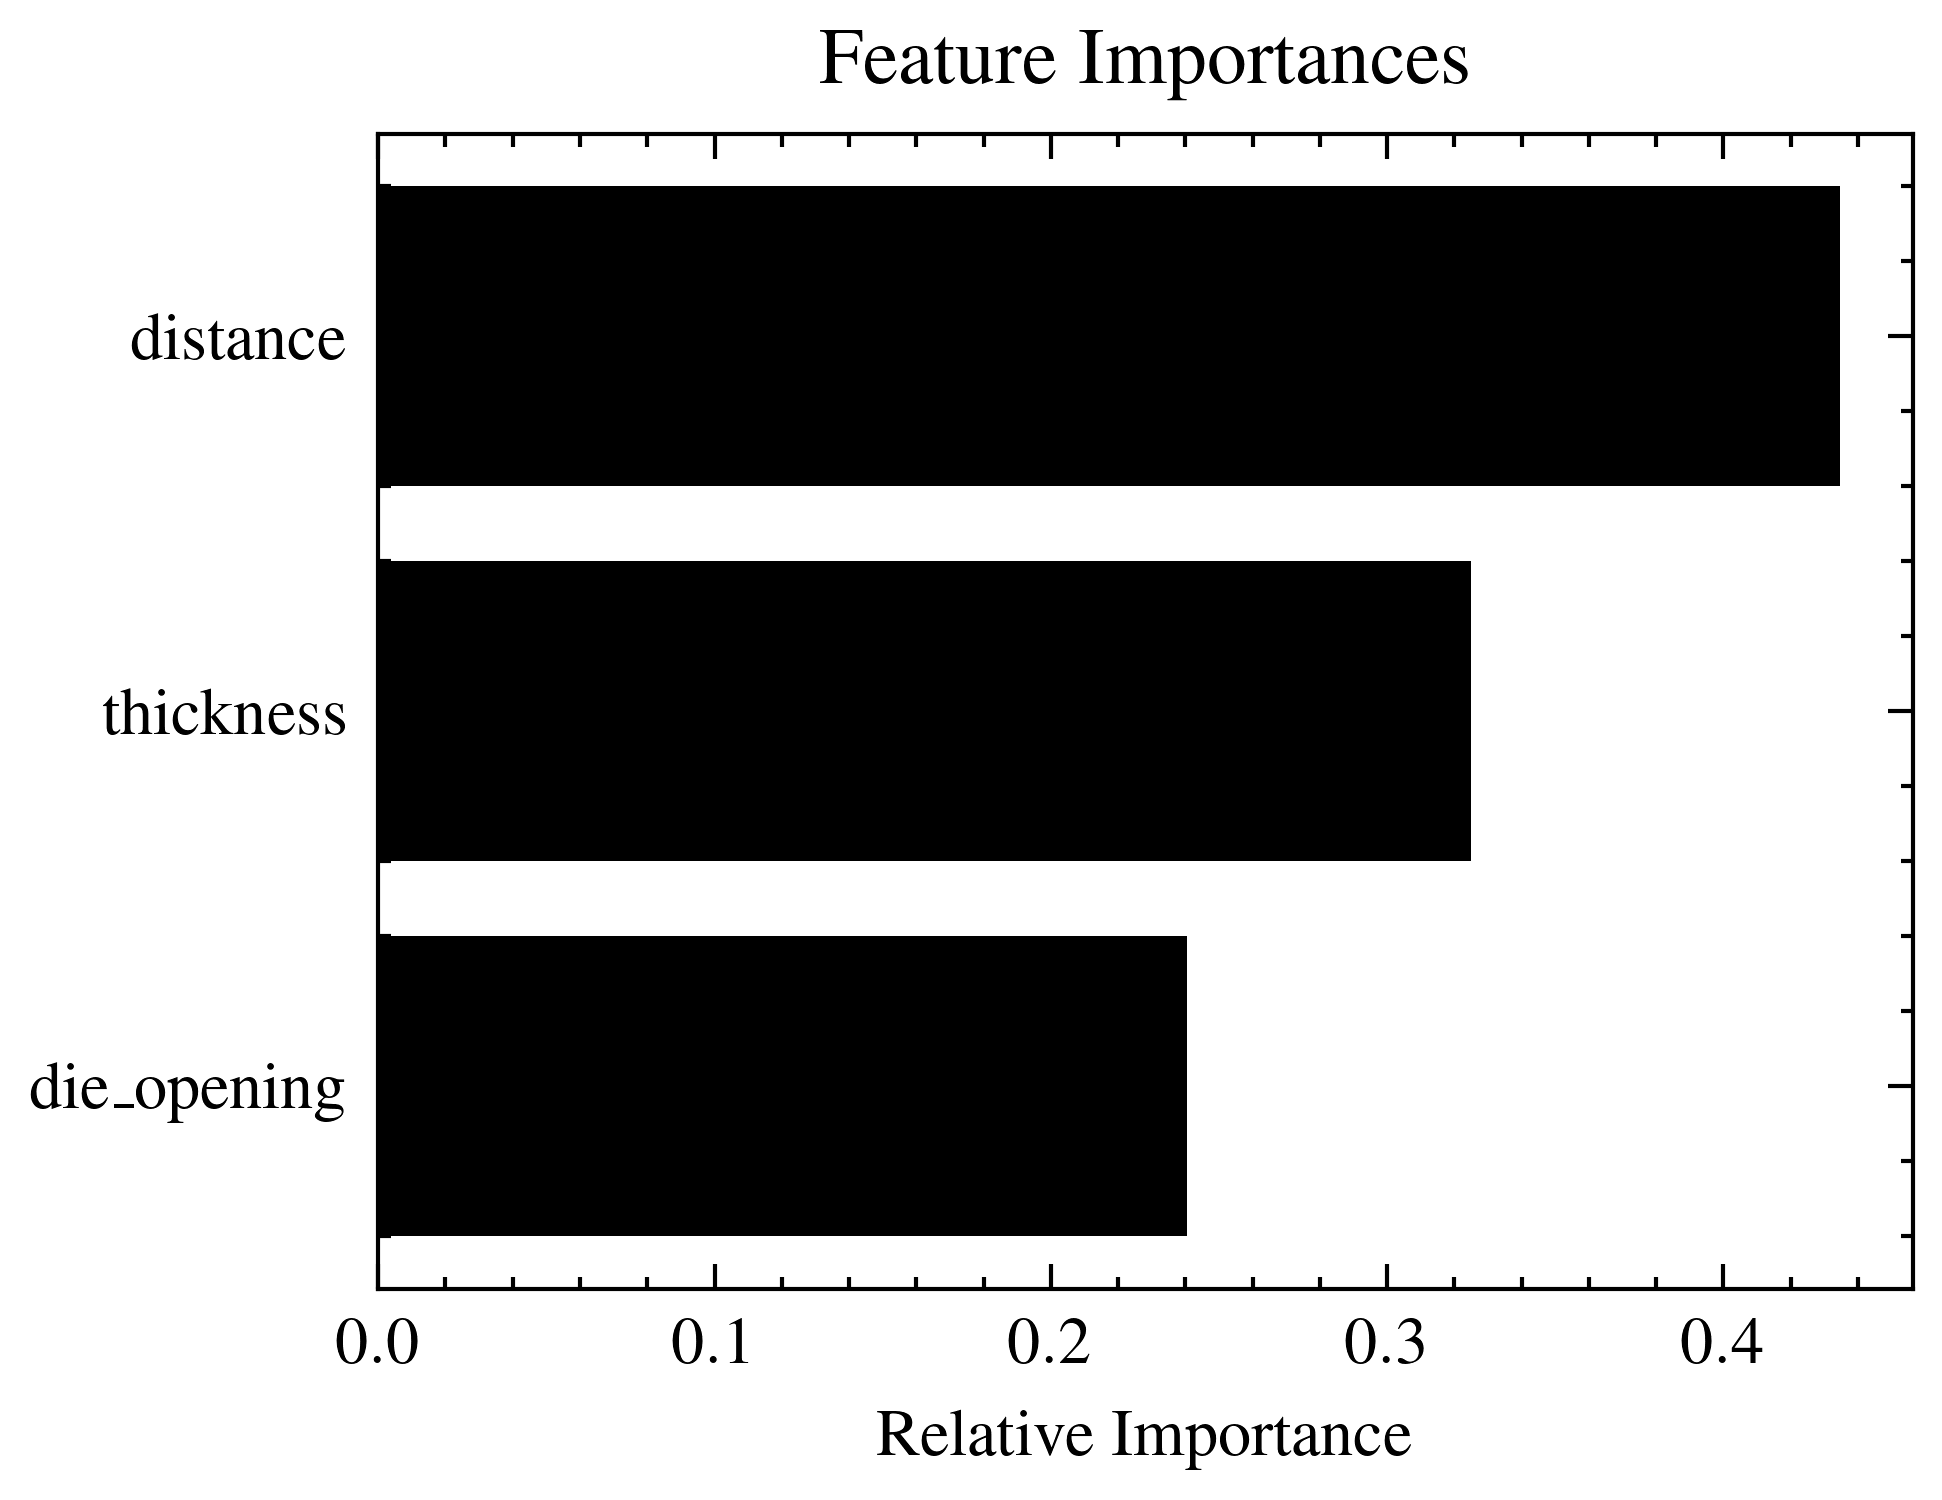
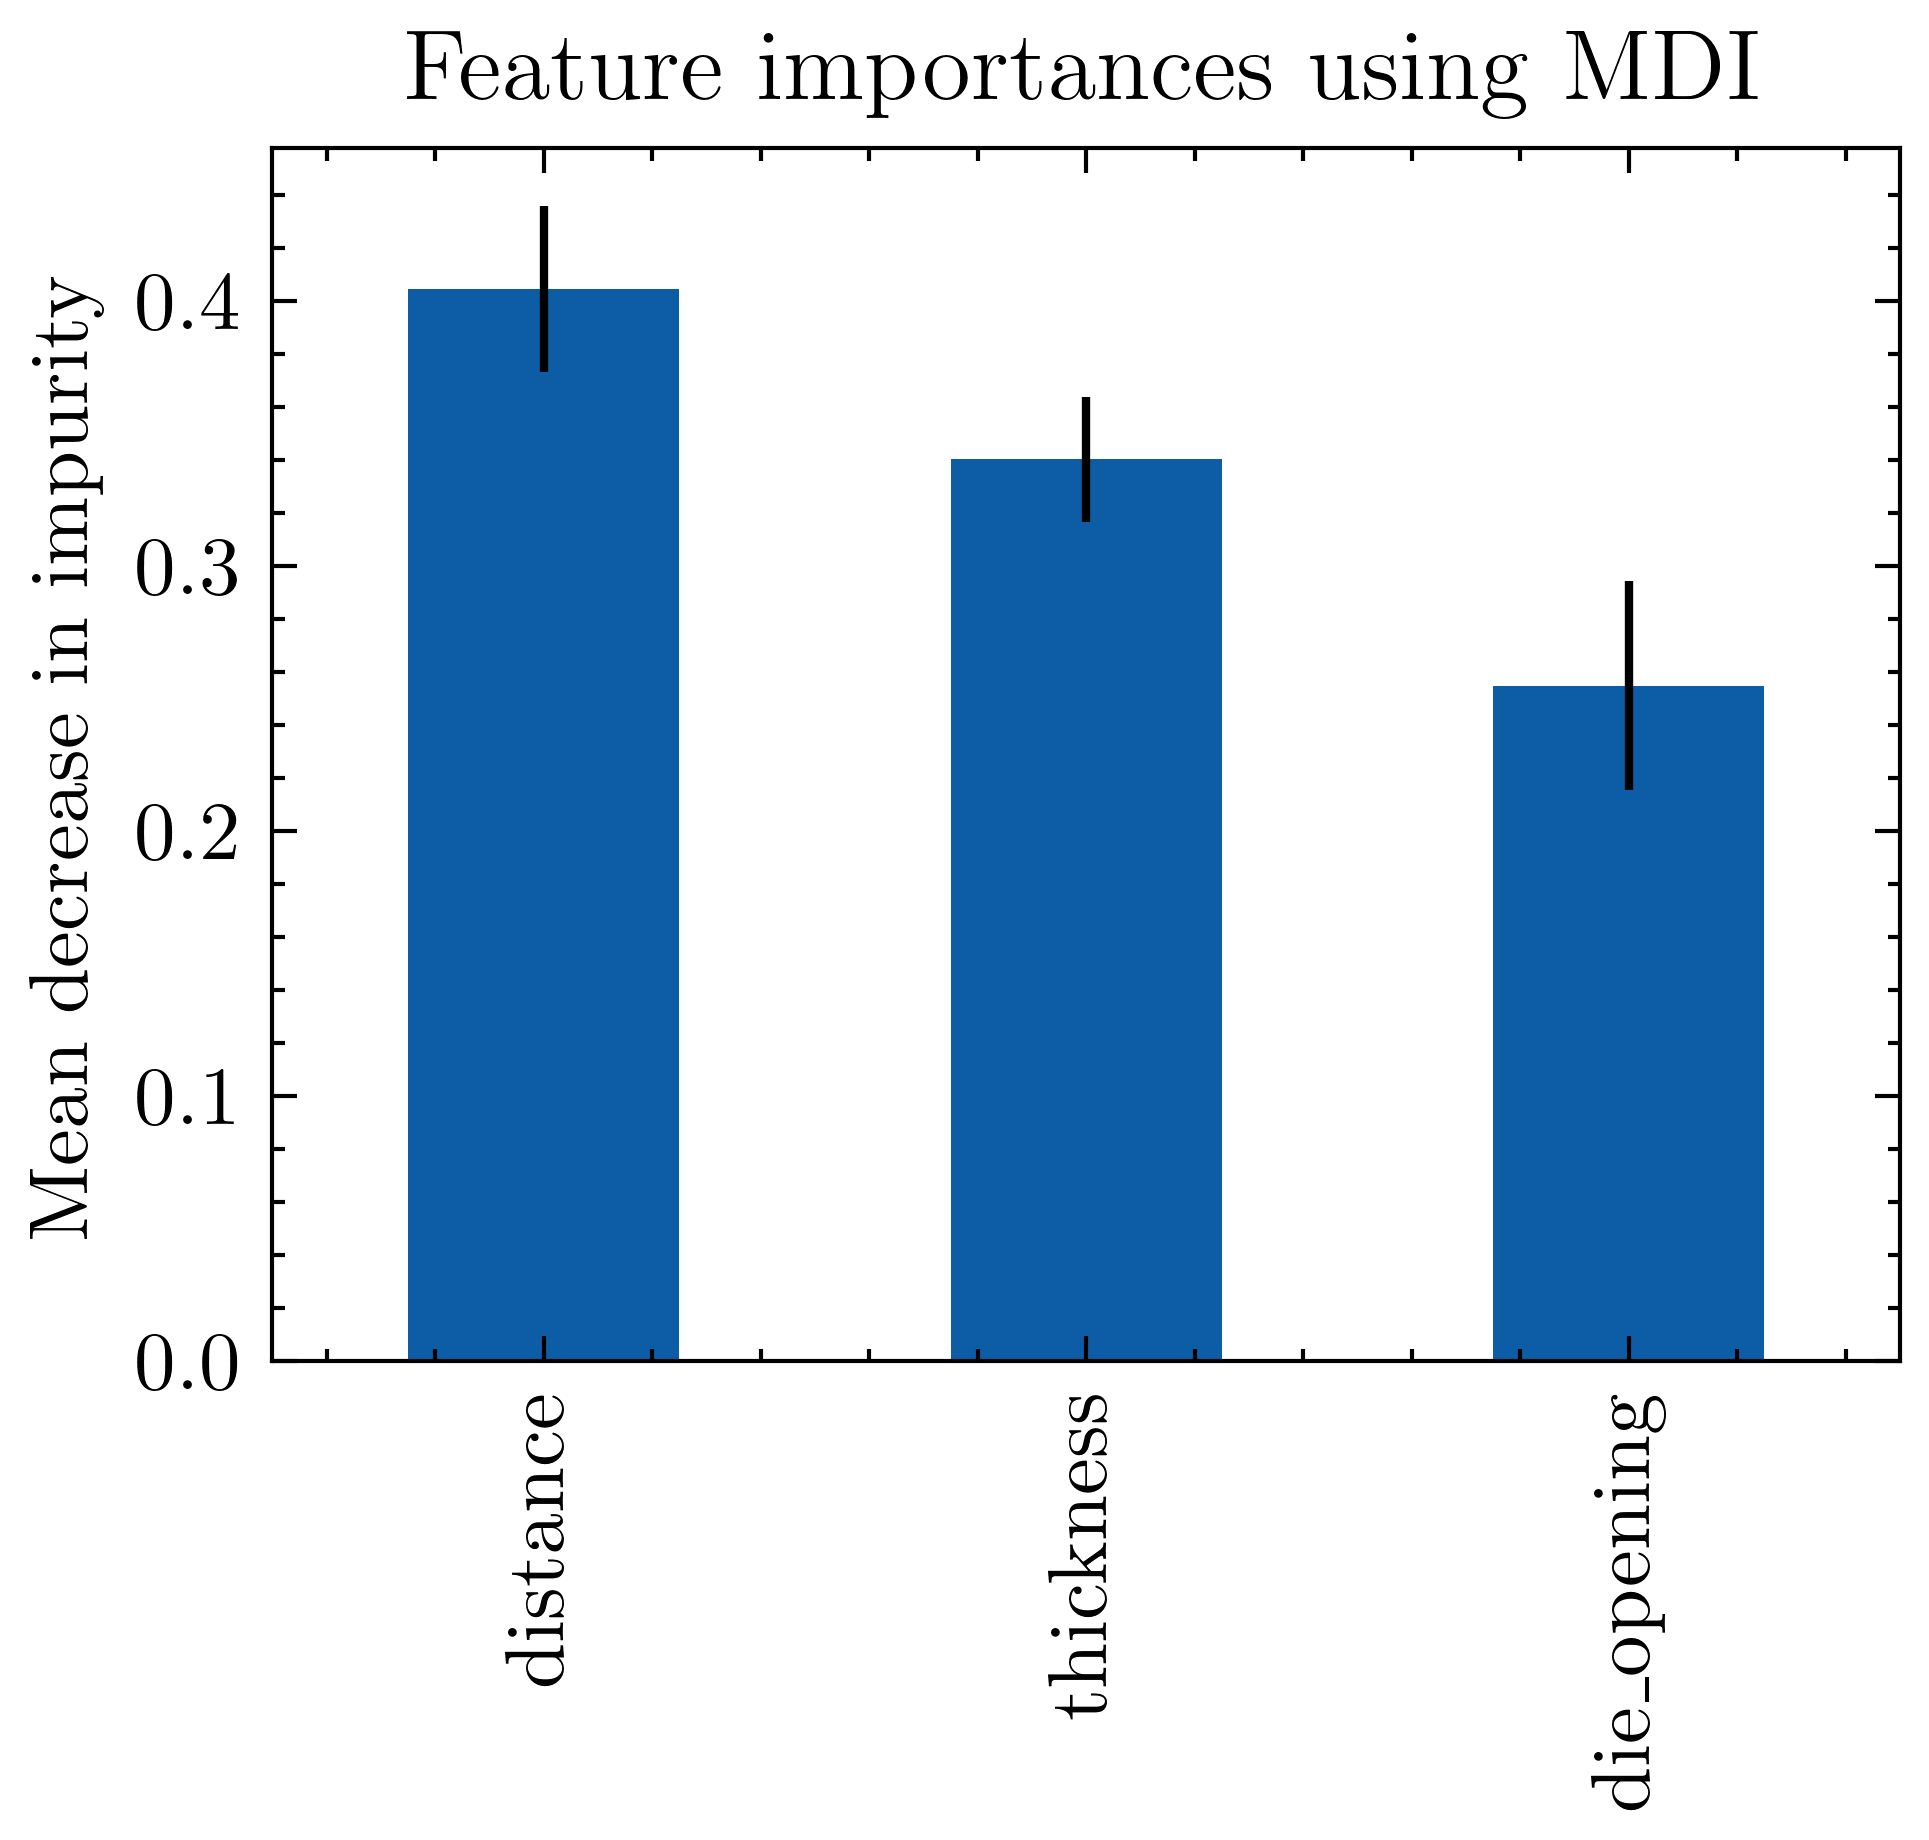
Various changes.

diff --git a/learner/random_forest/random_forest.py b/learner/random_forest/random_forest.py
@@ -33,6 +33,36 @@ def random_forest(model_data):
     return pipe, y_pred
 
 
+def feature_importances1(rf_model, df):
+    plt.style.use(['science'])
+    importances = rf_model.feature_importances_
+    std = np.std([tree.feature_importances_ for tree in rf_model.estimators_], axis=0)
+
+    feature_names = df.columns
+    # Remove 'springback"
+    feature_names = feature_names.drop('springback')
+
+    forest_importances = pd.Series(importances, index=feature_names)
+
+    fig, ax = plt.subplots()
+    forest_importances.plot.bar(yerr=std, ax=ax)
+    ax.set_title("Feature importances using MDI")
+    ax.set_ylabel("Mean decrease in impurity")
+    # fig.tight_layout()
+    plt.savefig('rf_feature_importances.png', transparent=True, dpi=600)
+
+
+def lime(model, df, md):
+    X = md.X
+    y = md.y
+
+
+    categorical_features = np.argwhere(
+        np.array([len(set(df.iloc[:, x])) for x in range(df.shape[1])]) <= 10).flatten()
+
+    print(categorical_features)
+
+
 def grid_search(model, model_data):
     pipe = Pipeline(
         [("scaler", StandardScaler()),
@@ -43,7 +73,6 @@ def grid_search(model, model_data):
                                                  n_estimators=10,
                                                  max_depth=7,
                                                  ))])
-
 
     param_grid = {
         'random_forest__n_estimators': [10, 20, 30, 40, 50, 60, 70, 80, 90, 100],
@@ -94,7 +123,7 @@ def calculate_feature_importances(regressor, X_train):
 
     # Create plot
     plt.figure(dpi=600)
-    plt.title("Feature Importance")
+    plt.title("Feature Importance1")
 
     # Add bars
     plt.bar(range(X_train.shape[1]), importances[indices])
@@ -122,7 +151,10 @@ if __name__ == '__main__':
     # calculate_feature_importances()feature_importances(model.steps[1][1], df)
     # calculate_feature_importances(model.steps[1][1], model_data.X_train)
 
+    # feature_importances1(model.steps[1][1], df)
+    lime(model, df, model_data)
+
     name = 'RF'
-    reports = ['stability']
-    create_reports(name, reports, model_data, model, y_pred)
+    # reports = ['stability']
+    # create_reports(name, reports, model_data, model, y_pred)
     # create_reports(name, reports, model_data2, model2, y_pred2)

diff --git a/learner/support_vector_machine/support_vector_machine.py b/learner/support_vector_machine/support_vector_machine.py
@@ -1,4 +1,5 @@
 import numpy as np
+from sklearn.inspection import PartialDependenceDisplay
 from sklearn.metrics import mean_absolute_error, mean_squared_error, r2_score
 from sklearn.svm import SVR
 from sklearn.pipeline import Pipeline
@@ -76,6 +77,17 @@ def grid_search(pipe, X_train, y_train, X_test, y_test):
     print("R2 score: {:.2f}".format(r2_score(y_test, grid.predict(X_test))))
     print("Best parameters: {}".format(grid.best_params_))
 
+
+def partial_dependence_plot(model, df):
+    plt.style.use(['science', 'ieee'])
+    features = ['distance', 'thickness', 'die_opening']
+    display = PartialDependenceDisplay.from_estimator(model, md.X, features)
+
+    # Save partial dependence plot
+    display.plot()
+    display.figure_.savefig('partial_dependence_svm.png', transparent=True, dpi=600)
+
+
 def get_project_root() -> Path:
     return Path(__file__).parent.parent.parent
 
@@ -97,26 +109,11 @@ if __name__ == '__main__':
     model2, y_pred2 = svr(df, md2.X_train, md2.y_train, md2.X_test, md2.y_test)
     model3, y_pred3 = svr(df, md3.X_train, md3.y_train, md3.X_test, md3.y_test)
 
-    # predict_part_of_data(model, df)
-    # df_result = vr.visualize_model_vs_example(model, df, 20, 3)
-
-    # plt.plot(df_result['distance'], df_result['mean_springback'], label='Target',
-    #          marker='o',
-    #          markersize=2,
-    #          linestyle='solid')
-    # plt.plot(df_result['distance'], df_result['pred_springback'], label='SVM', marker='o',
-    #          markersize=2,
-    #          linestyle='dotted')
-
-    # plt.legend()
-    # plt.savefig('y_test2.png', dpi=600)
-
     # Create reports
     reports = ['stability']
 
-    name = "SVM"
-    create_reports(name, reports, md, model, y_pred)
-    # create_reports(name, reports, md2, model2, y_pred2)
-    # create_reports(name, reports, md3, model3, y_pred3)
+    partial_dependence_plot(model, df)
 
-    # print('RANDOM SPLIT')
+    # name = "SVM"
+    # create_reports(name, reports, md, model, y_pred)
+

diff --git a/learner/mlp/mlp.py b/learner/mlp/mlp.py
@@ -2,6 +2,7 @@ from sklearn.model_selection import GridSearchCV
 from sklearn.neural_network import MLPRegressor
 from sklearn.pipeline import Pipeline
 from sklearn.preprocessing import MinMaxScaler
+from sklearn.inspection import PartialDependenceDisplay
 
 import learner.data_preprocessing as preprocessing
 from reports.reports_main import create_reports
@@ -46,6 +47,14 @@ def grid_search(pipe):
     # Print best hyper-parameters
     print('Best parameters: {}'.format(grid.best_params_))
 
+def partial_dependence(model, md):
+    features = ['distance', 'thickness', 'die_opening']
+    display = PartialDependenceDisplay.from_estimator(model, md.X, features)
+
+    # Save partial dependence plot
+    display.plot()
+    display.figure_.savefig('partial_dependence_mlp.png')
+
 
 if __name__ == '__main__':
     df = preprocessing.get_data()
@@ -65,8 +74,8 @@ if __name__ == '__main__':
 
     # grid_search(model)
 
-    name = "MLP"
+    partial_dependence(model, model_data)
 
-    reports = ['stability']
-    create_reports(name, reports, model_data, model, y_pred)
-    # create_reports(name, reports, model_data2, model2, y_pred2)
+    # name = "MLP"
+    # reports = ['stability']
+    # create_reports(name, reports, model_data, model, y_pred)
